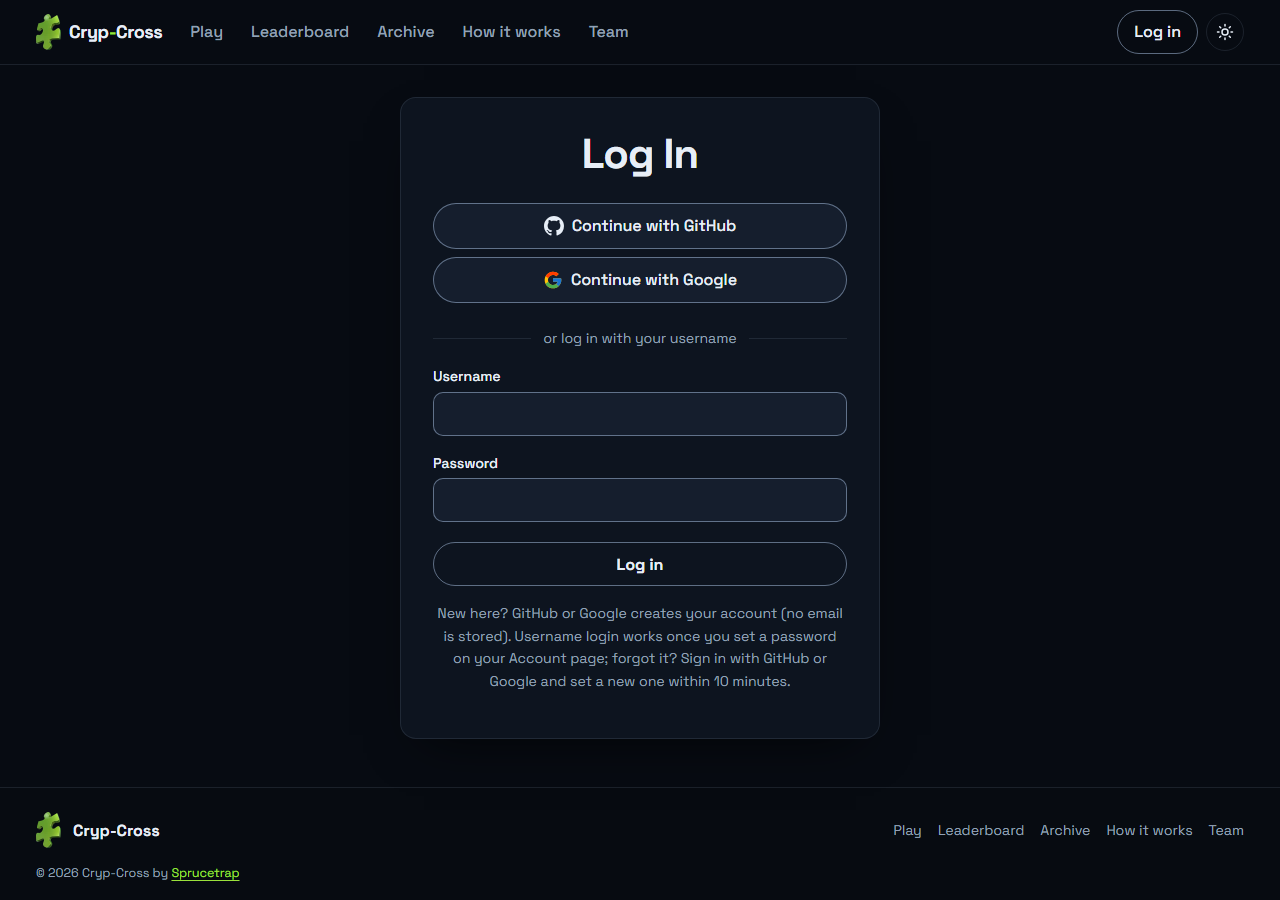
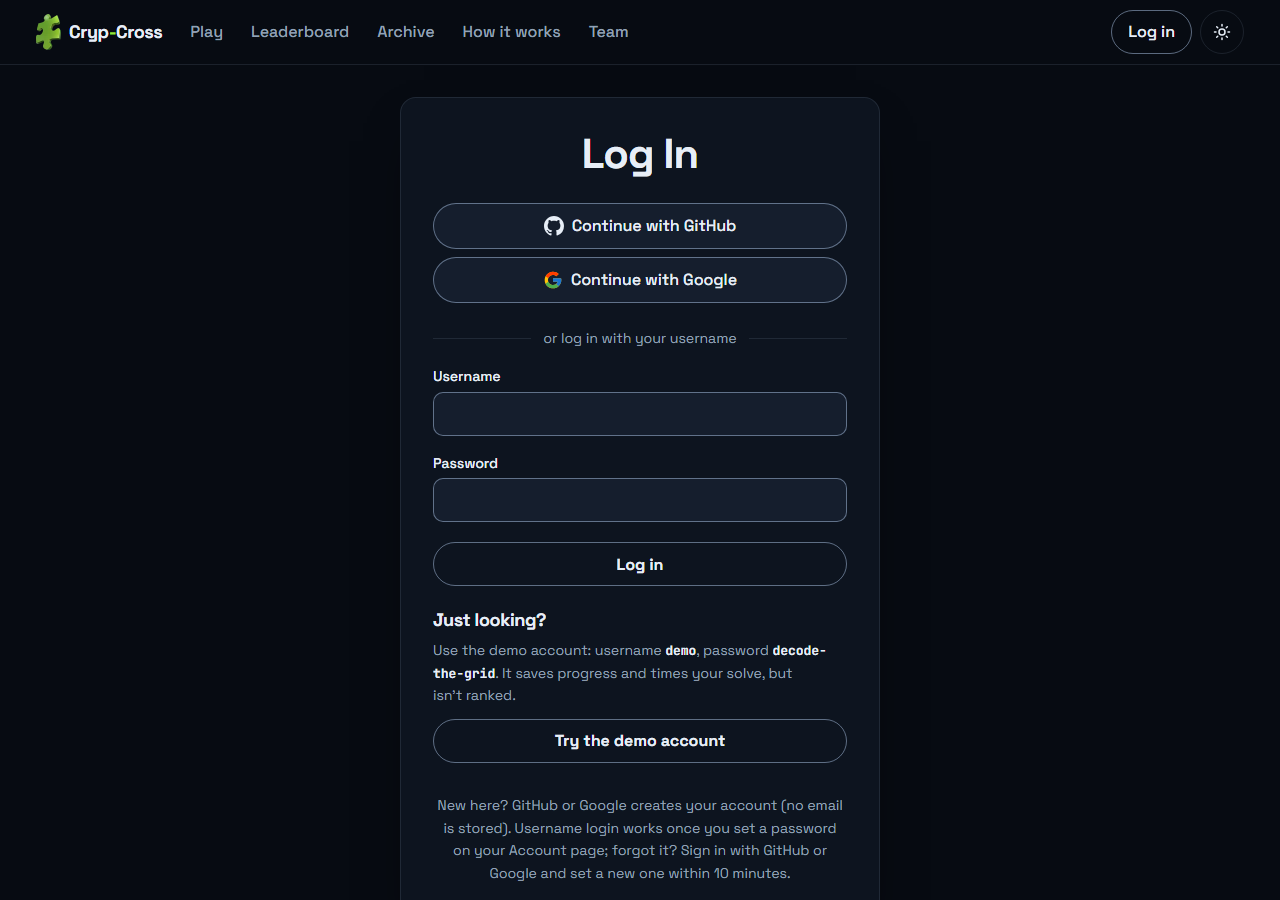
docs: add decisions, security and performance notes
- Add docs/decisions.md with the problem, options, choice and trade-off of each key choice
- Add docs/security.md covering all 29 checklist items and the data stored
- Add docs/performance.md with Lighthouse scores, bundle and font sizes
- Document the demo account and DEMO_ACCOUNT in the usage and configuration docs
- Retake every screenshot and add the Account page to the gallery
- Link the new docs, demo account and scripts from the README

diff --git a/README.md b/README.md
@@ -23,7 +23,7 @@
 
 ## About
 
-Cryp-Cross is a free daily crossword where every clue is encrypted. Each day the server generates one grid for everyone and hides its clues behind a classical cipher (Caesar, Atbash or Vigenère). Players crack the cipher with a built-in decoder, fill the grid, and check and submit their answers. Guests play unranked; with a free account, solves are timed by the server and climb the leaderboard. It is a MERN app (MongoDB, Express, React, Node.js). Play it at [cryp-cross.jevoelorbilla.dev](https://cryp-cross.jevoelorbilla.dev).
+Cryp-Cross is a free daily crossword where every clue is encrypted. Each day the server generates one grid for everyone and hides its clues behind a classical cipher (Caesar, Atbash or Vigenère). Players crack the cipher with a built-in decoder, fill the grid, and check and submit their answers. Guests play unranked; with a free account, solves are timed by the server and climb the leaderboard. It is a MERN app (MongoDB, Express, React, Node.js). Play it at [cryp-cross.jevoelorbilla.dev](https://cryp-cross.jevoelorbilla.dev) (the Log in page has a demo account), and read [why it is built this way](docs/decisions.md).
 
 ## Screenshots
 
@@ -33,7 +33,7 @@ Cryp-Cross is a free daily crossword where every clue is encrypted. Each day the
 <table>
   <tr>
     <td width="50%" align="center"><b>Home</b><br><a href="docs/images/home.png"><img src="docs/images/home.png" width="100%" alt="Home page with the headline, a sample board with a decoded clue, and the Decode, Fill, Race steps"></a></td>
-    <td width="50%" align="center"><b>Play</b><br><a href="docs/images/play.png"><img src="docs/images/play.png" width="100%" alt="Play page with the crossword grid and the Caesar decoder beside it"></a></td>
+    <td width="50%" align="center"><b>Play</b><br><a href="docs/images/play.png"><img src="docs/images/play.png" width="100%" alt="Play page with the crossword grid and the decoder beside it"></a></td>
   </tr>
   <tr>
     <td width="50%" align="center"><b>How it works</b><br><a href="docs/images/how-it-works.png"><img src="docs/images/how-it-works.png" width="100%" alt="How it works page explaining the three ciphers"></a></td>
@@ -41,15 +41,15 @@ Cryp-Cross is a free daily crossword where every clue is encrypted. Each day the
   </tr>
   <tr>
     <td width="50%" align="center"><b>Past puzzles</b><br><a href="docs/images/past-puzzles.png"><img src="docs/images/past-puzzles.png" width="100%" alt="Archive of past puzzles and their leaderboards"></a></td>
-    <td width="50%" align="center"><b>Log in</b><br><a href="docs/images/login.png"><img src="docs/images/login.png" width="100%" alt="Log in page with GitHub and Google buttons and username login"></a></td>
+    <td width="50%" align="center"><b>Log in</b><br><a href="docs/images/login.png"><img src="docs/images/login.png" width="100%" alt="Log in page with GitHub and Google buttons, username login and the demo account"></a></td>
   </tr>
   <tr>
-    <td width="50%" align="center"><b>Team</b><br><a href="docs/images/team.png"><img src="docs/images/team.png" width="100%" alt="Team page with the member carousel and pause button"></a></td>
+    <td width="50%" align="center"><b>Team</b><br><a href="docs/images/team.png"><img src="docs/images/team.png" width="100%" alt="Team page with one card per person"></a></td>
     <td width="50%" align="center"><b>Light mode</b><br><a href="docs/images/light-mode.png"><img src="docs/images/light-mode.png" width="100%" alt="Home page in the light theme"></a></td>
   </tr>
   <tr>
     <td width="50%" align="center"><b>Phone (light and dark)</b><br><a href="docs/images/phone.png"><img src="docs/images/phone.png" width="100%" alt="Play page on a phone in the light and dark themes, side by side"></a></td>
-    <td width="50%"></td>
+    <td width="50%" align="center"><b>Account (demo)</b><br><a href="docs/images/account.png"><img src="docs/images/account.png" width="100%" alt="Account page of the demo account with its stats"></a></td>
   </tr>
 </table>
 
@@ -59,7 +59,7 @@ Cryp-Cross is a free daily crossword where every clue is encrypted. Each day the
 
 - One new encrypted crossword for everyone, every day
 - A built-in decoder for Caesar, Atbash and Vigenère clues
-- Play as a guest, or sign in with GitHub or Google (no email stored)
+- Play as a guest, try the demo account, or sign in with GitHub or Google (no email stored)
 - Progress saved as you type, with Check to mark right and wrong clues
 - Server-timed solves on a daily leaderboard, plus streaks and stats
 - An archive of past puzzles with their solutions and leaderboards
@@ -71,7 +71,8 @@ Full list: [docs/features.md](docs/features.md).
 
 | Layer | Tools |
 |-------|-------|
-| Frontend | React 19.2.0, React Router 7.18.5, Vite 8.3.5, Vitest 5.1.0, ESLint 10.14.0 |
+| Frontend | React 19.2.0, React Router 7.18.5, Vite 8.3.5 |
+| Tooling | Vitest 5.1.0, Playwright 1.65.0, ESLint 10.14.0, Prettier 3.9.10 |
 | Backend | Node.js 22.14.0, Express 4.22.3, Mongoose 7.8.13, express-session 1.19.0, connect-mongo 6.0.0, bcryptjs 3.0.3, helmet 8.3.0, express-rate-limit 7.5.1 |
 | Database | MongoDB (Atlas in production, mongodb-memory-server for tests and local dev) |
 | Hosting | Vercel (static site and serverless API on one origin), Vercel Analytics 2.0.1, GitHub Actions CI |
@@ -107,6 +108,7 @@ The API reads `server/.env` (template: [`server/.env.example`](server/.env.examp
 | `GOOGLE_CLIENT_ID`, `GOOGLE_CLIENT_SECRET` | API | Enables Google sign-in |
 | `API_URL`, `PORT`, `TRUST_PROXY`, `NODE_ENV` | API | Hosting options |
 | `PUZZLE_TZ`, `MIN_SOLVE_SECONDS`, `AUTH_RATE_LIMIT`, `OAUTH_RATE_LIMIT` | API | Puzzle day, minimum solve time and rate limits |
+| `DEMO_ACCOUNT` | API | Shared demo account on the Log in page (`on` by default, `off` to disable) |
 | `VITE_API_URL` | Frontend | API base URL when it is on another origin (empty means same origin) |
 | `VITE_SITE_URL` | Frontend | Public site URL for canonical links and `sitemap.xml` |
 
@@ -122,7 +124,7 @@ Defaults and details: [docs/configuration.md](docs/configuration.md).
 4. **Check** marks each clue right or wrong. **Submit** records your time once the grid is full.
 5. Sign in with GitHub or Google before you start to save progress and get ranked on the **Leaderboard**.
 
-More: [player and account flows](docs/usage.md), [API reference](docs/api.md), [architecture notes](docs/architecture.md), [state machines](docs/state-machines.md), [deployment](docs/deployment.md), [troubleshooting](docs/troubleshooting.md).
+More: [player and account flows](docs/usage.md), [API reference](docs/api.md), [architecture notes](docs/architecture.md), [state machines](docs/state-machines.md), [security](docs/security.md), [performance](docs/performance.md), [deployment](docs/deployment.md), [troubleshooting](docs/troubleshooting.md).
 
 ## More
 
@@ -134,6 +136,7 @@ Cryp-Cross/
 ├── .github/workflows/   # CI
 ├── api/                 # Vercel serverless entry for the Express app
 ├── docs/                # Guides and README screenshots
+├── e2e/                 # Playwright smoke test
 ├── public/              # Static files: icons, theme script, robots.txt, llms.txt
 ├── scripts/             # Post-build sitemap and robots.txt generator
 ├── server/              # Express API, puzzle generator, models, tests
@@ -150,7 +153,8 @@ Cryp-Cross/
 | `npm start` | Vite dev server on port 3000 (proxies `/api` to port 5000) |
 | `npm run build` | Production build into `build/`, plus `sitemap.xml` and `robots.txt` |
 | `npm run serve` | Serve `build/` with the `serve.json` headers |
-| `npm run lint` / `npm test` | ESLint / Vitest |
+| `npm run lint` / `npm run format` | ESLint / Prettier |
+| `npm test` / `npm run test:e2e` | Vitest unit tests / Playwright smoke test (starts the app itself) |
 | `npm start --prefix server` | Start the API |
 | `npm run dev:memory --prefix server` | Start the API on a throwaway in-memory MongoDB |
 | `npm test --prefix server` | Backend tests |

diff --git a/docs/security.md b/docs/security.md
@@ -1,0 +1,60 @@
+# Security
+
+How Cryp-Cross meets each item of its security checklist, and which items don't apply. To report a problem, open an issue at [github.com/Jevoel16/Cryp-Cross](https://github.com/Jevoel16/Cryp-Cross/issues) without exploit details and ask for a private contact.
+
+## What is stored
+
+| Data | Where | Kept for |
+|------|-------|----------|
+| Username, GitHub and Google user IDs, optional bcrypt password hash | `users` | Until the account is removed |
+| Saved grids, start and solve times, check counts | `attempts` | Indefinitely (they feed stats and past leaderboards) |
+| Session ID, user ID, sign-in time and method | `sessions` | 14 days after the last request |
+| Request counters keyed by IP address | rate-limit collections | 15 minutes |
+
+No email address, real name, profile picture or access token is stored. GitHub is asked for no scope and Google for `openid profile` only; the access token is used once to read the profile and then dropped.
+
+## Checklist
+
+| # | Item | Status | How |
+|---|------|--------|-----|
+| 1 | Admin routes | Not applicable | There is no admin role or admin route. |
+| 2 | Access control on the server | Done | `requireAuth` (`server/middleware/auth.js`) guards every ranked and account route. The UI is never the only check. |
+| 3 | Per-user data scoping | Done | Every attempt query filters by the session's user ID. No route takes a user ID from the client. |
+| 4 | Verify email on sign-up | Not applicable | No email is collected; identity comes from GitHub or Google. |
+| 5 | Hashed passwords | Done | bcrypt, cost 12 (`server/services/accounts.js`). |
+| 6 | No tokens in `localStorage` | Done | The session is an `httpOnly`, `SameSite=Lax` cookie, `Secure` in production. `localStorage` holds only the theme, the grid draft and the guest timer. |
+| 7 | Secrets only on the server | Done | The frontend bundle gets only `VITE_API_URL` and `VITE_SITE_URL`. |
+| 8 | `.env` out of git | Done | `.env` is gitignored; `.env.example` files hold placeholders only. |
+| 9 | No secrets or personal data in logs | Done | Errors log the method, path and message only; OAuth tokens and profiles are never logged. |
+| 10 | Parameterized queries | Done | Mongoose only, with validated input; no string-built queries. |
+| 11 | Server-side input validation | Done | `server/lib/validate.js` for accounts, `validateGrid` for every grid, day keys checked by format. |
+| 12 | XSS | Done | React escapes output, there is no `innerHTML`, and the CSP allows scripts from `'self'` only. |
+| 13 | Uploads | Not applicable | There are no uploads. |
+| 14 | Webhooks | Not applicable | There are no webhooks. |
+| 15 | Rate limiting | Done | 300 requests and 60 writes per 15 minutes per IP, 10 for login and password changes, 30 for OAuth. Counters are shared through MongoDB. |
+| 16 | CORS | Done | An explicit allow-list from `CORS_ORIGINS` with credentials; never `*`. |
+| 17 | No debug output in production | Done | The central error handler answers `Internal Server Error` and logs the detail server-side. |
+| 18 | Patched dependencies | Done | `npm audit --audit-level=high` runs in CI for the frontend and the backend. |
+| 19 | Security scan before release | Due before the next release | `/security-review` is run before each release and its findings fixed first. Last run: v2.0.0; the changes since then are due a run before the next release. |
+| 20 | CSRF | Done | Writes need an allowed `Origin` and a JSON body, on top of the `SameSite=Lax` cookie (`csrfGuard` in `server/app.js`). OAuth uses `state` and PKCE. |
+| 21 | Security headers | Done | Site: CSP, HSTS, `X-Content-Type-Options`, `Referrer-Policy`, `Permissions-Policy`, `frame-ancestors 'none'` in `vercel.json` and `serve.json`. API: the same through helmet, plus `Cache-Control: no-store`. |
+| 22 | Sessions | Done | New session ID on every login; 14-day idle expiry; logout destroys the session; a password change ends every other session. There are no reset tokens. |
+| 23 | No account enumeration | Done | Login gives one message and compares against a dummy hash when the user is unknown. Usernames are public on the leaderboard, so "username taken" reveals nothing new. |
+| 24 | Access-control tests | Done | `server/test/play.test.js` proves every ranked route answers 401 signed out and that one player's saves, checks and solves never change another's attempt or stats. |
+| 25 | Limits | Done | 10 KB body limit; lists capped at 60 (archive), 50 (leaderboard) and 30 (history); 5 second query limit and a socket timeout. |
+| 26 | Redirects and server-side fetches | Done | `from` must be a same-site path (`safeRedirectPath`); redirect hosts come from environment variables; OAuth endpoints are fixed constants. |
+| 27 | Secret scanning | Done | gitleaks scans the full history in CI. The demo account's public credentials are allow-listed in `.gitleaks.toml`. |
+| 28 | Least privilege and minimal data | Partly yours | The app needs `readWrite` on its one database and nothing else; create the Atlas user with only that role. Data collected is listed above. |
+| 29 | This document | Done | Linked from the README. |
+
+## The demo account
+
+Its credentials are public on purpose (they are shown on the Log in page). It is limited instead of secret: it can't change its username, password or connected accounts, its solves are never ranked, and it holds no data worth taking. Set `DEMO_ACCOUNT=off` to remove it from the Log in page and stop seeding it.
+
+## Known limits
+
+- A player can read the public clues signed out, then sign in and submit after `MIN_SOLVE_SECONDS`. Accepted so guests can play.
+- Attempts are kept indefinitely; there is no self-service account deletion yet.
+- The 4 moderate `npm audit` findings are in ESLint's development tooling and don't ship.
+
+[Back to README](../README.md)

diff --git a/docs/decisions.md b/docs/decisions.md
@@ -1,0 +1,75 @@
+# Decisions
+
+The non-obvious choices in Cryp-Cross: the problem, what was considered, what was chosen and what it costs. The mechanics behind several of them are in [architecture.md](architecture.md).
+
+## Accounts come only from GitHub or Google, and no email is stored
+
+- **Problem:** players need accounts for a ranked leaderboard, but email sign-up means verifying addresses, sending mail and storing personal data.
+- **Options:** email and password with verification; magic links; OAuth only.
+- **Choice:** OAuth only (GitHub and Google), matched by the provider's user ID. An optional password can be added later for username login.
+- **Trade-off:** someone without a GitHub or Google account can only play as a guest. In return there is no mailer, no reset-token flow and no email address to leak.
+
+## The server times the solve, not the browser
+
+- **Problem:** a leaderboard is worthless if the client reports its own time.
+- **Options:** trust a client timer; start a server timer on first save; start it when the puzzle is opened.
+- **Choice:** the timer starts only on `GET /api/puzzles/today/progress`, solves under `MIN_SOLVE_SECONDS` are refused, and the puzzle seed is an HMAC of the date so tomorrow's answers can't be computed from the public source.
+- **Trade-off:** a player can still read the clues signed out, then sign in and submit after the minimum time. That is accepted so guests can keep playing without an account.
+
+## Guests can play, but nothing they do is stored
+
+- **Problem:** asking for an account before the first puzzle loses most visitors.
+- **Options:** require sign-in; anonymous server-side attempts; grade guests without storing anything.
+- **Choice:** `POST /api/puzzles/today/guest-check` grades a grid and stores nothing. The guest's letters and timer live in the browser.
+- **Trade-off:** guest progress doesn't follow the player to another device and never ranks.
+
+## A shared demo account instead of a "skip sign-in" switch
+
+- **Problem:** a reviewer should see saved progress, the server timer and the Account page within seconds, without creating an account.
+- **Options:** a fake signed-in mode in the frontend; a seeded read-only account; a seeded account that can play.
+- **Choice:** a seeded `demo` user that signs in through the normal login route. It can play, but it can't change its username, password or providers, its solves are left out of every ranking, and each demo login clears its attempt for the day.
+- **Trade-off:** two reviewers at the same moment share one grid. The credentials are public by design, so the account is limited instead of secret.
+
+## One explicit state machine per flow
+
+- **Problem:** state was spread over flags (`busy` + `message`, `solvedAt` checks in several routes), which allowed real bugs: two submits at once could overwrite a solve, and a failed progress request silently turned a signed-in player into a guest.
+- **Options:** patch each bug; adopt a state-machine library; plain reducers and transition tables.
+- **Choice:** plain reducers and frozen constant tables, one per flow, listed in [state-machines.md](state-machines.md). On the server, writes to an attempt are conditional updates, so the database enforces the transition.
+- **Trade-off:** more small files and tests. No new dependency, and each machine can be read in one place.
+
+## The attempt status is derived, not stored
+
+- **Problem:** making the attempt lifecycle explicit usually means adding a `status` column and migrating old rows.
+- **Options:** add and backfill a `status` field; derive the status from `solvedAt`.
+- **Choice:** `attemptStatus()` derives it. Every write filters on `solvedAt` not existing, which is the same rule expressed to MongoDB.
+- **Trade-off:** the status isn't visible as a field in the database. No migration was needed and old data stayed valid.
+
+## Rate-limit counters and sessions live in MongoDB
+
+- **Problem:** on Vercel each serverless instance has its own memory, so in-memory limits and sessions don't hold.
+- **Options:** Redis; a hosted rate-limit service; the MongoDB that is already there.
+- **Choice:** MongoDB for both (`connect-mongo` for sessions, a small store for `express-rate-limit`).
+- **Trade-off:** a database write per counted request. One less service to run and pay for.
+
+## The site and the API share one origin
+
+- **Problem:** a session cookie across two domains needs `SameSite=None` and a wide CORS policy.
+- **Options:** API on a separate host; one Vercel project that rewrites `/api/*` to a serverless function.
+- **Choice:** one origin. The cookie stays `SameSite=Lax` and the CSP can use `connect-src 'self'`.
+- **Trade-off:** the API can't scale or deploy separately from the site.
+
+## JavaScript, not TypeScript
+
+- **Problem:** types would catch a class of mistakes, but the project was already written in JavaScript.
+- **Options:** migrate; stay and lean on tests.
+- **Choice:** stay on JavaScript. Frozen constant objects stand in for unions, and each state machine has transition tests.
+- **Trade-off:** no compile-time check on payload shapes. A migration would have been churn without a user-visible gain.
+
+## No UI framework or CSS library
+
+- **Problem:** the UI needs to be consistent and small.
+- **Options:** Tailwind; a component library; plain CSS with tokens.
+- **Choice:** plain CSS with spacing, type, radius and colour tokens in `src/App.css`, one small SVG icon set and self-hosted latin fonts.
+- **Trade-off:** more CSS written by hand. The whole stylesheet is about 6 KB gzipped and the CSP needs no third-party origins.
+
+[Back to README](../README.md)

diff --git a/docs/performance.md b/docs/performance.md
@@ -1,0 +1,65 @@
+# Performance
+
+Budgets: Lighthouse 90 or higher in every category on mobile, LCP under 2.5s, INP under 200ms, CLS under 0.1, and at most 170 KB of gzipped JavaScript on first load.
+
+## Lighthouse (mobile)
+
+Measured on 2026-11-11 with Lighthouse 12.8.2 (simulated slow 4G, 4x CPU slowdown) against the production build served locally by `vite preview` with the in-memory API. `vite preview` doesn't compress responses, so the deployed site should load a little faster.
+
+| Page | Performance | Accessibility | Best Practices | SEO | FCP | LCP | TBT | CLS |
+|------|-------------|---------------|----------------|-----|-----|-----|-----|-----|
+| Home (`/`) | 97 | 100 | 96 | 100 | 1.8s | 2.4s | 0ms | 0.003 |
+| Play (`/play`) | 97 | 100 | 96 | 100 | 1.5s | 2.4s | 0ms | 0.003 |
+
+- Best Practices loses points to one console error: `/_vercel/insights/script.js` is 404 locally because Vercel Web Analytics only exists on Vercel.
+- TBT (0ms) stands in for INP, which needs real interactions to measure.
+- The Log in page is `noindex` on purpose, so its SEO score is not a target.
+
+Run it again:
+
+```bash
+npm run build && npm run preview
+```
+
+```bash
+npx lighthouse http://localhost:3000/ --view
+```
+
+## Bundle
+
+| File | Raw | Gzipped |
+|------|-----|---------|
+| Initial JavaScript (`index-*.js`) | 268 KB | 85.4 KB |
+| Stylesheet (`index-*.css`) | 27 KB | 6.0 KB |
+| Route chunks, loaded on demand (Account, Archive, How it works, Leaderboard, Log in, Team) | 1–8 KB each | 0.6–2.6 KB each |
+
+Home and Play are in the initial bundle; every other route is lazy-loaded.
+
+## Fonts
+
+Two families, self-hosted, latin subset only, `font-display: swap`. The two Space Grotesk files that draw the first screen (400 and 700) are preloaded.
+
+| File | Size |
+|------|------|
+| Space Grotesk 400 / 500 / 700 | 13.4 / 13.3 / 12.8 KB |
+| JetBrains Mono 400 / 700 | 21.2 / 21.9 KB |
+
+## What was changed, with numbers
+
+| Change | Before | After |
+|--------|--------|-------|
+| Latin-only font subsets | 42 font files in the build | 10 |
+| Lazy-loaded routes | 90.5 KB gzipped initial JS | 85.4 KB |
+| Preload the heading and body fonts | LCP 2.6s, Performance 95 | LCP 2.4s, Performance 97 |
+| README logo moved out of the site | 308 KB shipped in `build/` | 0 (95 KB copy in `docs/images/`) |
+| Shared requests | `/api/puzzles/today` fetched by Home and again by Play; `/api/auth/providers` fetched twice on Log in | Once each |
+
+## Server and database
+
+- Vercel compresses responses and serves hashed assets with `Cache-Control: public, max-age=31536000, immutable`. API responses are `no-store`.
+- Lists are capped: 60 archive days, 50 leaderboard rows, 30 history rows.
+- Indexes: `attempts { user, date }` (unique) for every per-player query, `attempts { date, timeMs, solvedAt }` for the leaderboard sort, `dailypuzzles { date }` (unique), `users { username }` (unique).
+- Queries select only the fields they return and use `.lean()` for read-only lists. Every query has a 5 second limit.
+- Autosave is debounced by one second; requests for a date the player has left are cancelled.
+
+[Back to README](../README.md)

diff --git a/docs/usage.md b/docs/usage.md
@@ -10,6 +10,12 @@ Step-by-step flows for each kind of user. For running the app locally, see the R
 4. Type the answer. Tab or Enter jumps to the next clue. Your letters stay after a refresh, and the guest timer starts with your first letter.
 5. **Check** marks each clue green or red; **Submit** (once every cell is filled) shows "Solved in 4:12 · not ranked". Guest solves never appear on the leaderboard.
 
+## Demo account
+
+1. Open **Log In** (`/login`) and press **Try the demo account** (or type the username and password shown there).
+2. Play as usual: letters save to the account and the server times the solve.
+3. The demo account is never ranked, and its username, password and connected accounts can't be changed. Each demo login starts today's grid empty.
+
 ## Player flow (account)
 
 1. **Log In** (`/login`) → **Continue with GitHub** or **Continue with Google**. The first time, this creates your account with a username from your GitHub login or Google name. No email address is asked for or stored.
@@ -24,7 +30,7 @@ Step-by-step flows for each kind of user. For running the app locally, see the R
 
 1. **Home** (`/`): introduction to Cryp-Cross.
 2. **How it works** (`/idea`): the three ciphers and the features.
-3. **Team** (`/team`): team member carousel.
+3. **Team** (`/team`): who built it.
 4. Use the sun/moon button in the header to switch between the dark and light themes. On a phone, the menu button opens the page links.
 
 [Back to README](../README.md)

diff --git a/docs/features.md b/docs/features.md
@@ -11,7 +11,8 @@ The full feature list of Cryp-Cross, frontend and backend.
 - **Leaderboard** (`/leaderboard`): today's fastest solves, or any past day with `?date=YYYY-MM-DD`
 - **Archive** (`/puzzles`, `/puzzles/:date`): past days with the solution, decoded clues and the cipher key
 - **Account stats**: puzzles solved, current and best streak, best time and recent solves
-- Info pages: Home, How it works (`/idea`) and a Team carousel
+- Info pages: Home, How it works (`/idea`) and Team
+- **Demo account** on the Log in page: one click signs in a shared account that saves progress and is timed, but is never ranked and cannot change its own settings
 - **Accounts through GitHub or Google only**: the first sign-in creates the account (no email address is asked for or stored). Buttons appear only for providers configured on the API.
 - **Account page**: change the username, add or change a password for username + password login, connect or disconnect GitHub/Google, and see your stats
 - **Plain, consistent design**: one set of spacing, type, radius and colour tokens; a lime accent (from the puzzle-piece logo) only for actions and state, cyan only for cipher text; Space Grotesk for the interface and JetBrains Mono only for cipher text, the grid and numbers. No decorative glows, gradients or animations.

diff --git a/docs/configuration.md b/docs/configuration.md
@@ -20,6 +20,7 @@ Environment variables for the API and the frontend, and how to set up GitHub and
 | `MIN_SOLVE_SECONDS` | no | Correct submissions sooner than this after opening the puzzle are refused (default `30`) |
 | `PUZZLE_TZ` | no | IANA time zone that decides when the daily puzzle changes (default `UTC`) |
 | `TRUST_PROXY` | behind a proxy | Proxy hops to trust, so rate limiting sees real client IPs and https is detected. Default `1` on Vercel (detected from `VERCEL`), otherwise `0`; set `1` on Render or Railway. |
+| `DEMO_ACCOUNT` | no | Shared demo account shown on the Log in page. On by default; set to `off` to hide it and stop seeding it |
 | `NODE_ENV` | no | Set to `production` in production |
 
 **Frontend:** optional. `.env.example` has the same three blocks; copy the one you need into a root `.env` or your host.

diff --git a/docs/deployment.md b/docs/deployment.md
@@ -17,7 +17,7 @@ The site and the API run in one Vercel project on one origin: `vercel.json` buil
    | `APP_URL`, `CORS_ORIGINS`, `VITE_SITE_URL` | `<site>` |
    | `TRUST_PROXY` | `1` |
    | `GITHUB_CLIENT_ID/SECRET`, `GOOGLE_CLIENT_ID/SECRET` | at least one pair, from the production OAuth apps |
-   | `PUZZLE_TZ`, `MIN_SOLVE_SECONDS`, `AUTH_RATE_LIMIT`, `OAUTH_RATE_LIMIT` | optional |
+   | `PUZZLE_TZ`, `MIN_SOLVE_SECONDS`, `AUTH_RATE_LIMIT`, `OAUTH_RATE_LIMIT`, `DEMO_ACCOUNT` | optional |
 
 5. **Deploy**, then register `<site>/api/auth/oauth/github/callback` and `<site>/api/auth/oauth/google/callback` with the OAuth apps.
 6. From then on every push to `main` deploys to production, and other branches get preview URLs. Previews have a different origin, so logins there are refused unless you set Preview variables to match.
